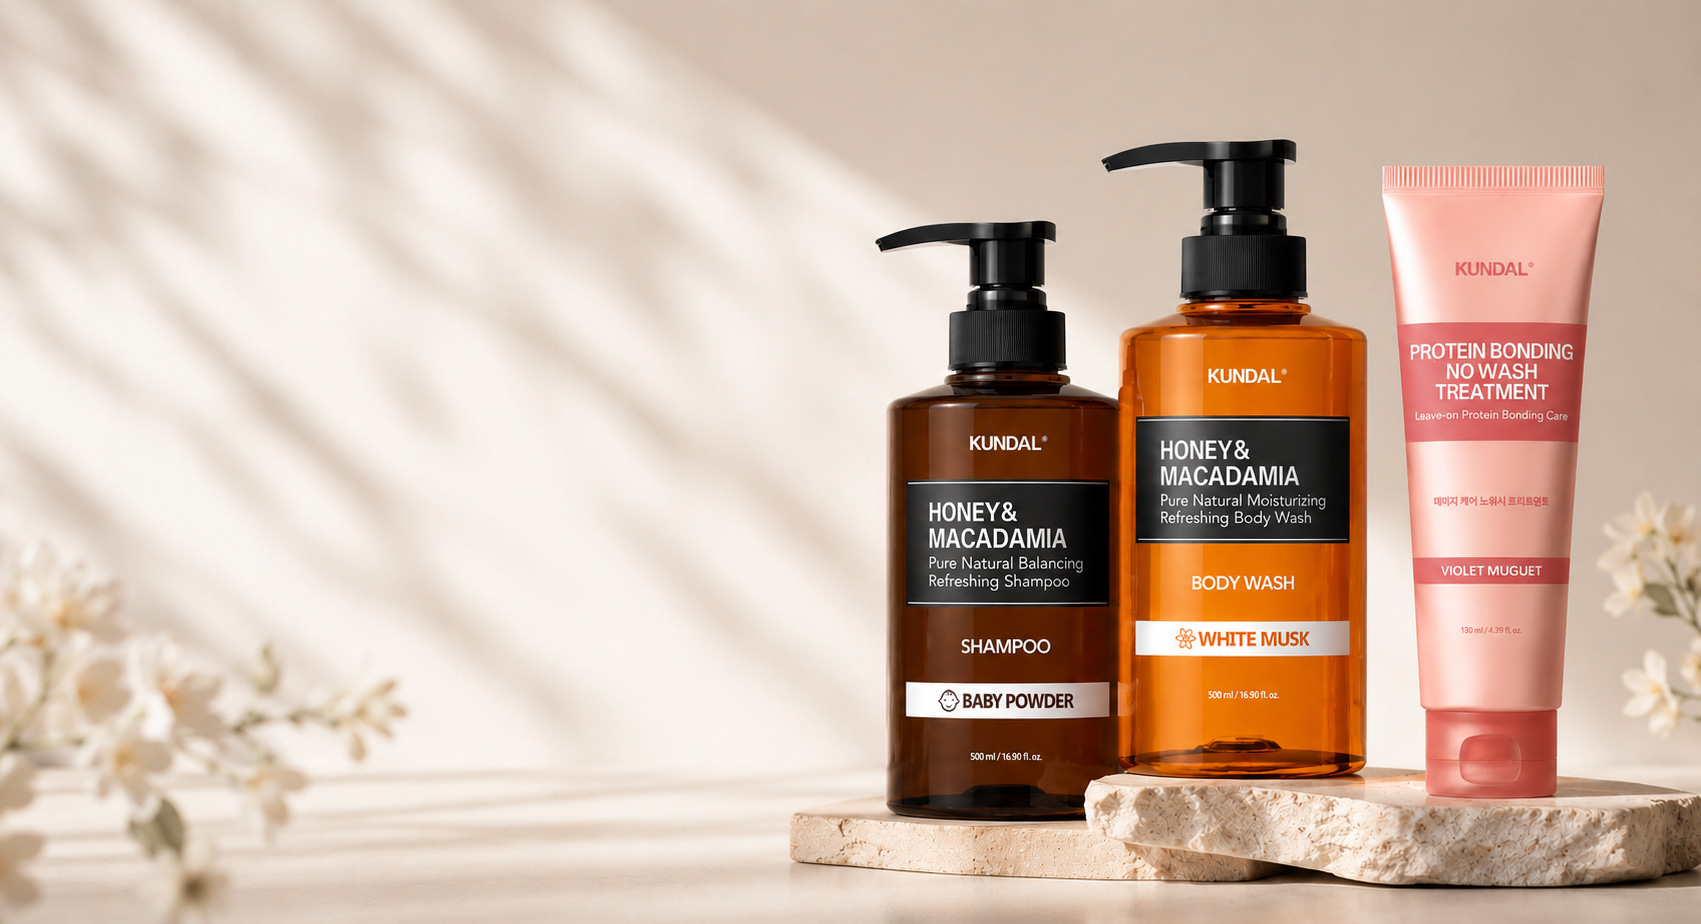
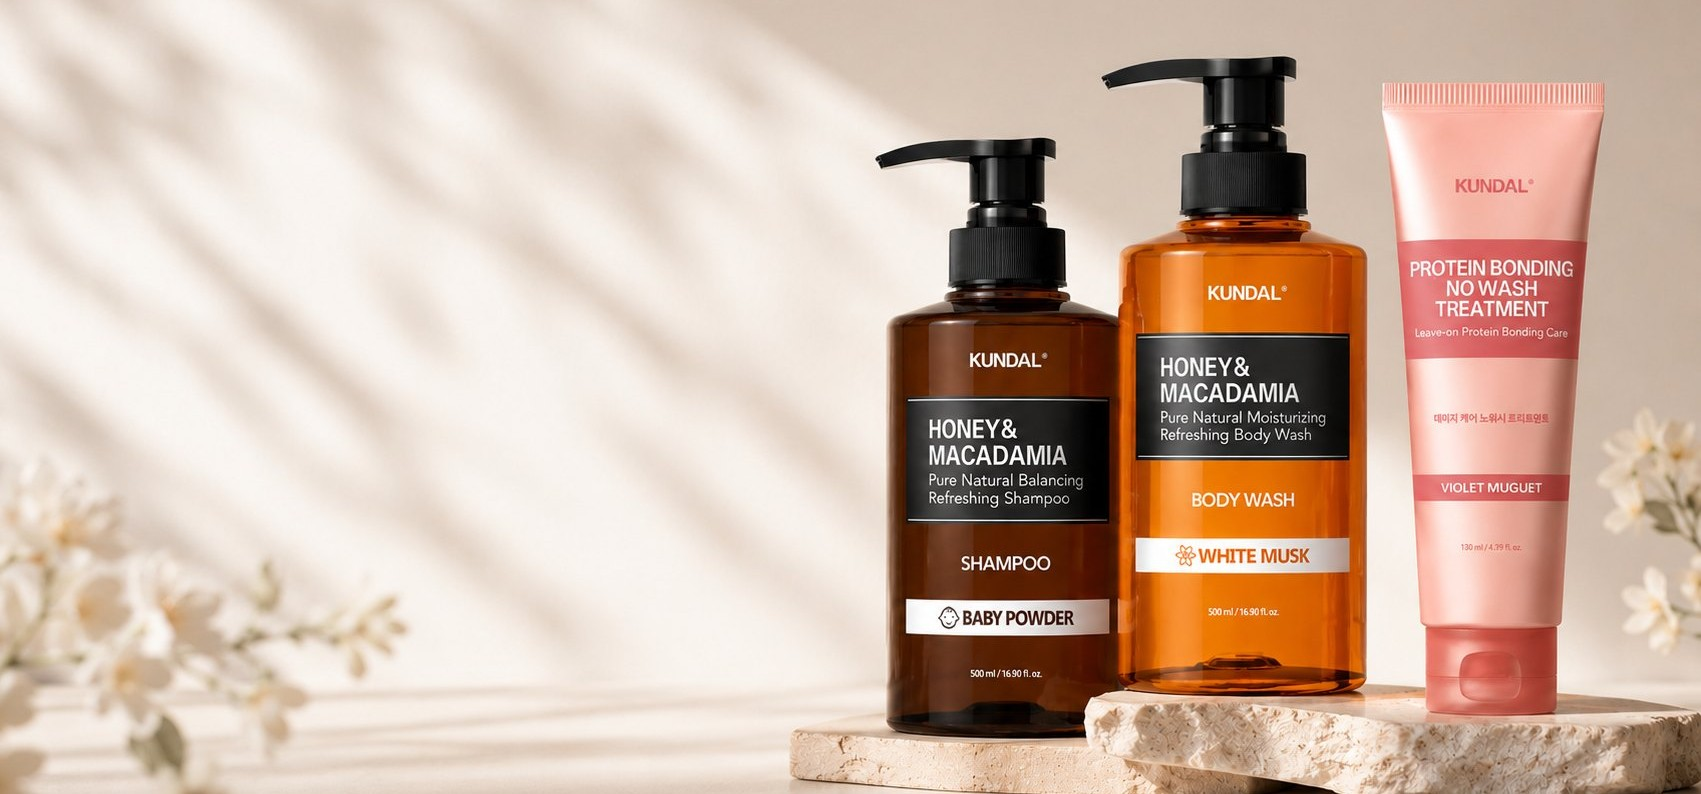
Add files via upload

diff --git a/kundal.html b/kundal.html
@@ -123,9 +123,9 @@ nav.primary a.current::after{width:100%;background:var(--accent);}
 .crumb .sep{opacity:.5;}
 
 /* ---------- brand hero ---------- */
-.brand-hero{position:relative;overflow:hidden;height:clamp(520px,40vw,720px);padding:0;}
+.brand-hero{position:relative;overflow:hidden;height:560px;padding:0;}
 .brand-hero-bg{position:absolute;inset:0;z-index:0;background-size:cover;background-position:78% center;background-repeat:no-repeat;}
-.brand-hero .brand-hero-bg{background-position:center 58%;}
+.brand-hero .brand-hero-bg{background-position:center 62%;}
 .brand-hero-scrim{position:absolute;inset:0;z-index:1;}
 .brand-hero.on-light .brand-hero-scrim{
   background:linear-gradient(90deg,rgba(255,255,255,.94) 0%,rgba(255,255,255,.8) 38%,rgba(255,255,255,.25) 64%,rgba(255,255,255,0) 84%);
